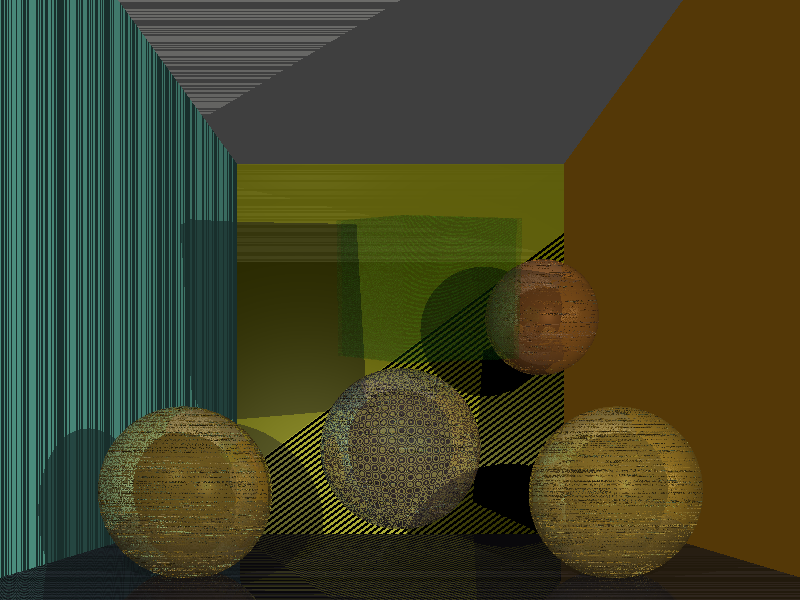
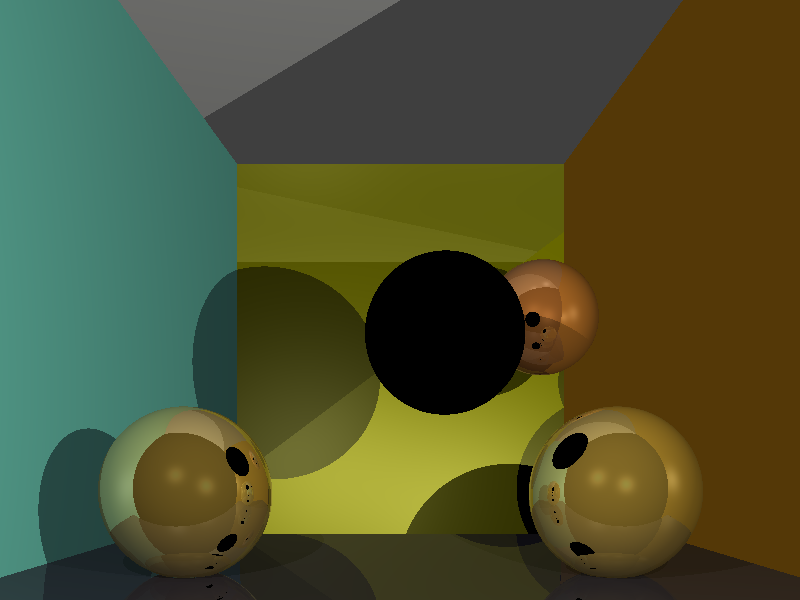
refactorings

diff --git a/Final/Program.cs b/Final/Program.cs
@@ -18,10 +18,18 @@ internal static class Program
     private static readonly List<IObject3D> Objects3D =
     [
         new Sphere(new Vector3D(150, 475, 200), 100, MaterialFactory.Create(MaterialType.Gold, 0.5)),
-        new Cube(new Vector3D(430, 250, 150), 150, MaterialFactory.Create(MaterialType.Emerald, 0.2, 0.8), 30),
+        //new Cube(new Vector3D(430, 250, 150), 150, MaterialFactory.Create(MaterialType.Emerald, 0.2, 0.8), 30),
         new Sphere(new Vector3D(600, 200, 500), 80, MaterialFactory.Create(MaterialType.Bronze, 0.3)),
         new Sphere(new Vector3D(650, 475, 200), 100, MaterialFactory.Create(MaterialType.Gold, 0.4)),
-        new Sphere(new Vector3D(400, 430, 150), 90, MaterialFactory.Create(MaterialType.Pearl, 0.6, 0.4)),
+        new Sphere(new Vector3D(450, 300, 150), 90, new Material(
+            MaterialType.Chrome,
+            new RgbColor(0.02, 0.02, 0.02),
+            new RgbColor(0.35, 0.35, 0.4),
+            new RgbColor(1, 1, 1),
+            0.8f,
+            0.25f,
+            0.98f
+        ), true),
         //floor
         new Triangle(new Vector3D(-1000, 600, 40), new Vector3D(1800, 600, 40), new Vector3D(-1000, 500, 600),
             MaterialFactory.Create(MaterialType.Obsidian, 0.3)),
@@ -67,14 +75,30 @@ internal static class Program
 
     private static void CreateImage()
     {
-        var rayTracer = new RayTracer(Objects3D, LightSources);
-        using var image = new Image<Rgba32>(Width, Height);
-        var camera = new Camera(new Vector3D(Width / 2, 599, -1200));
-
         var taskLineRanges = CalcTaskLineRanges();
         var tasks = new List<Task>();
         var objLock = new object();
 
+        var rayTracer = new RayTracer(Objects3D, LightSources);
+        using var image = new Image<Rgba32>(Width, Height);
+        var camera = new Camera(new Vector3D(Width / 2, 599, -1200));
+
+        for (var y = 0; y < Height; y++)
+        {
+            for (var x = 0; x < Width; x++)
+            {
+                // camera setup
+                var origin = new Vector3D(x, y, 0);
+                var ray = camera.CreateRay(origin);
+
+                var color = rayTracer.CalcRay(ray);
+                image[x, y] = color.ConvertToRgba32();
+            }
+
+            Console.WriteLine("Line rendered: " + y + " / " + Height);
+        }
+
+        /*
         foreach (var taskRange in taskLineRanges)
         {
             var task = Task.Run(() =>
@@ -97,7 +121,7 @@ internal static class Program
         }
 
         Task.WaitAll(tasks);
-
+*/
         image.SaveAsPng(FilePath);
     }
 

diff --git a/FontDisplay/Program.cs b/FontDisplay/Program.cs
@@ -89,7 +89,7 @@ internal static class Program
                 var origin = new Vector3D(x, y, 0);
                 var ray = camera.CreateRay(origin);
 
-                var color = rayTracer.CalcRay(new Ray(origin, new Vector3D(0, 0, 1)));
+                var color = rayTracer.CalcRay(ray);
                 image[x, y] = color.ConvertToRgba32();
             }
 
